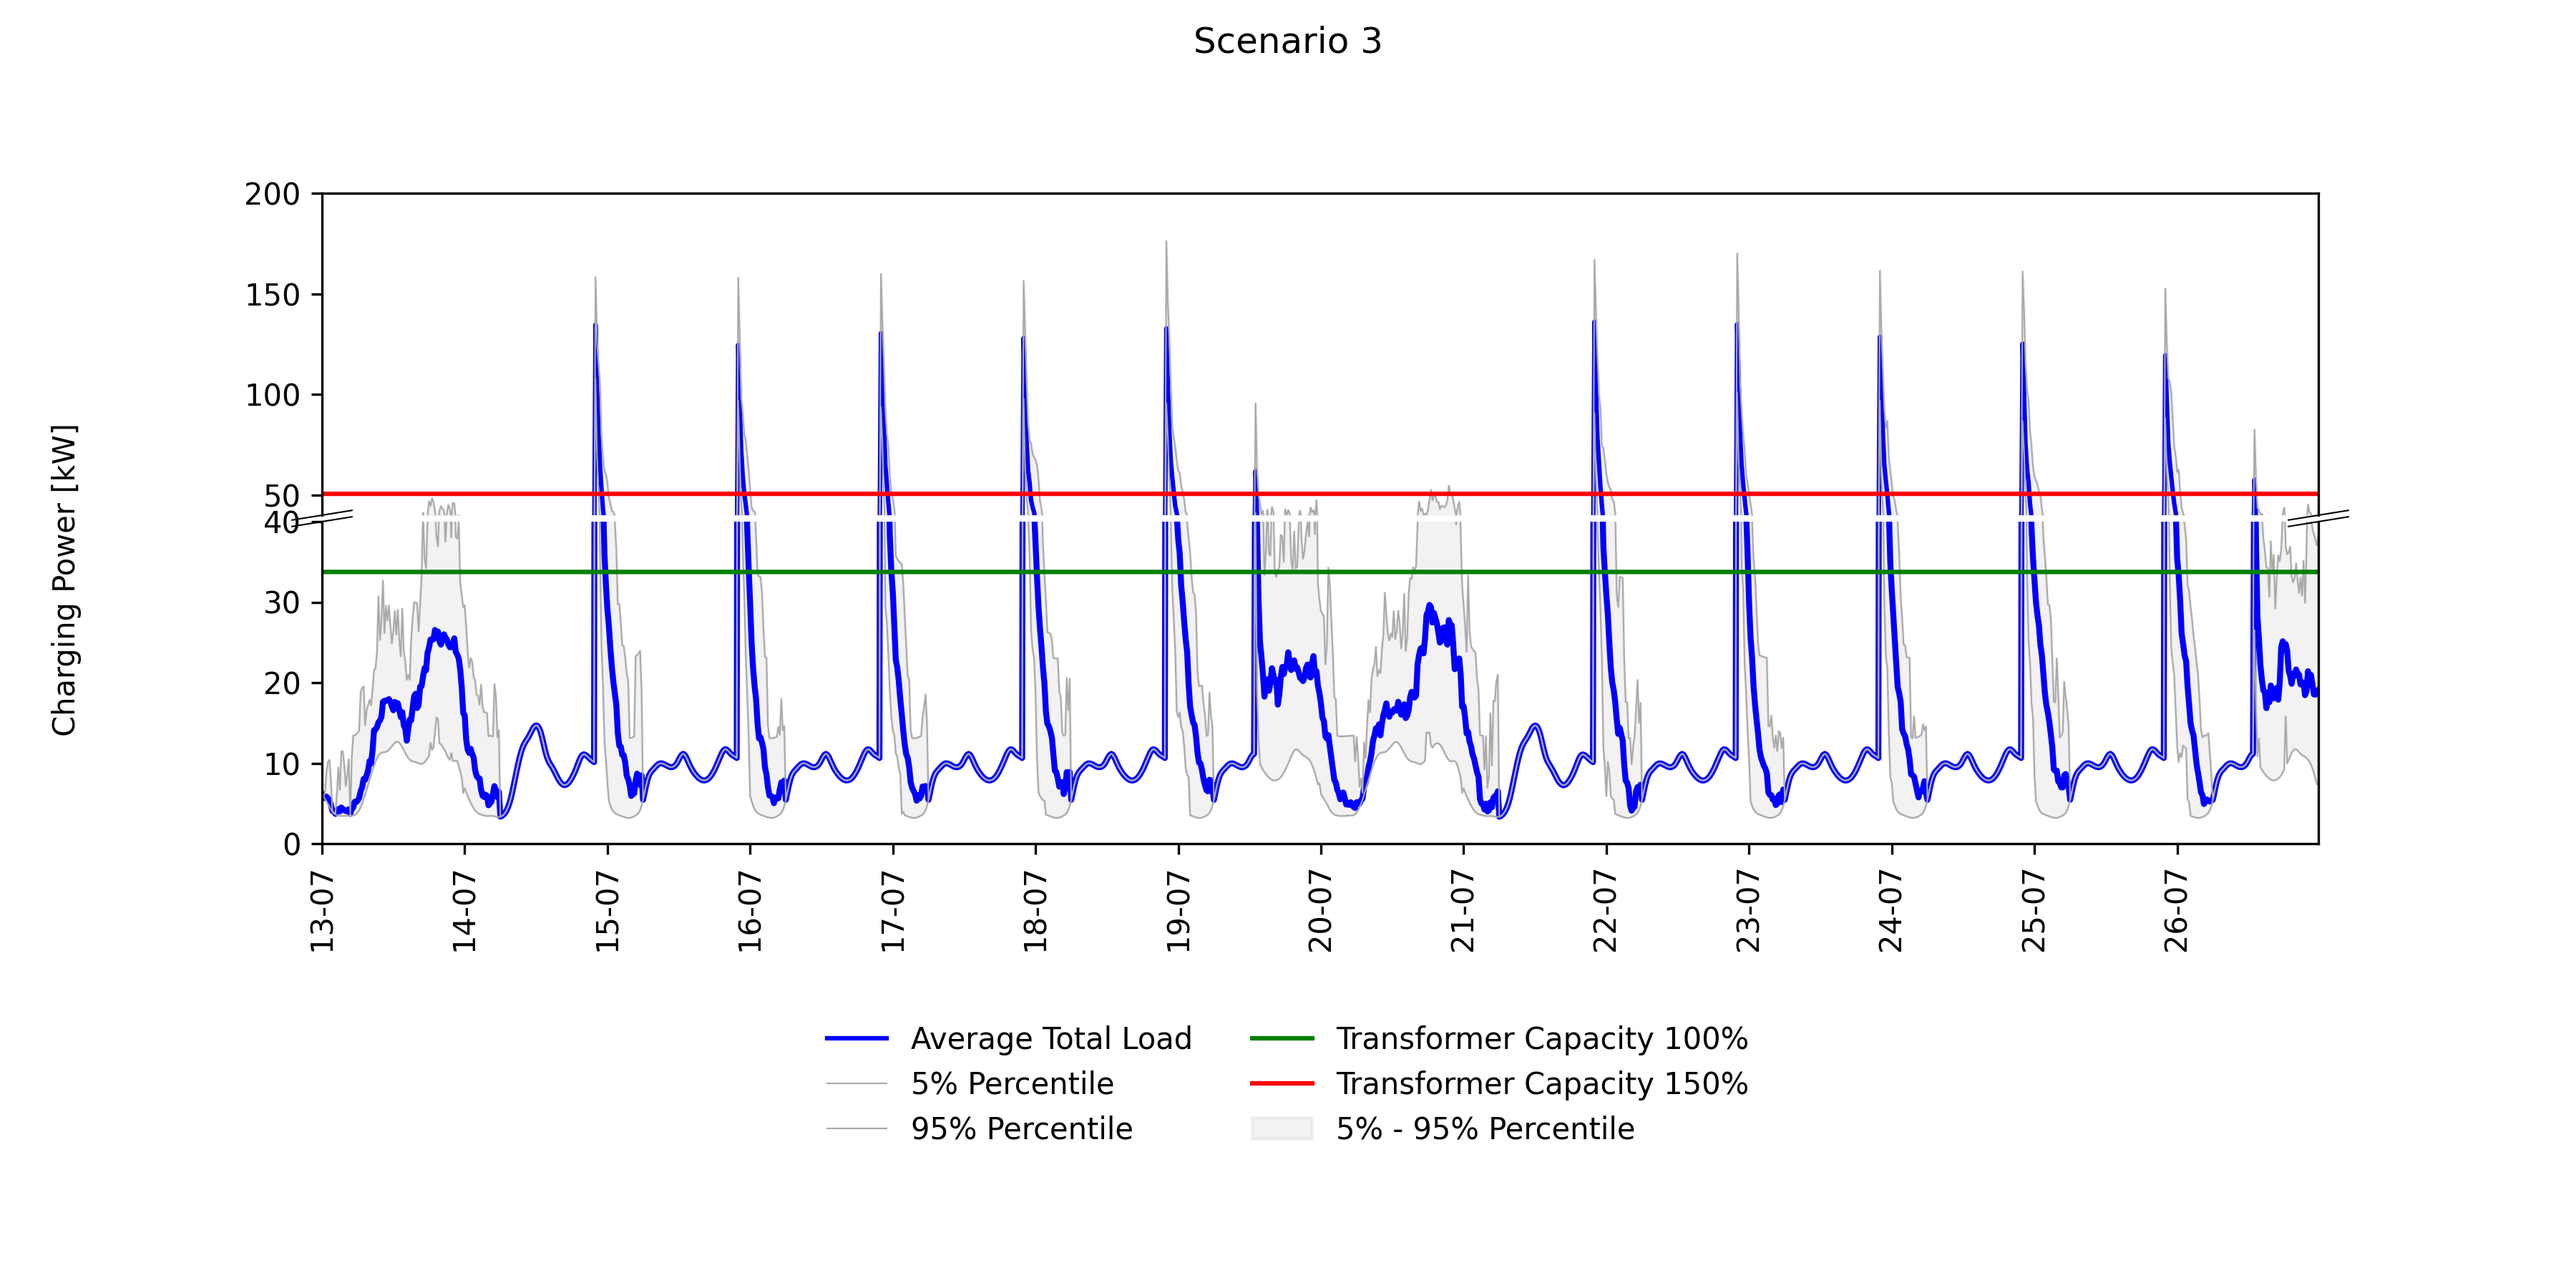
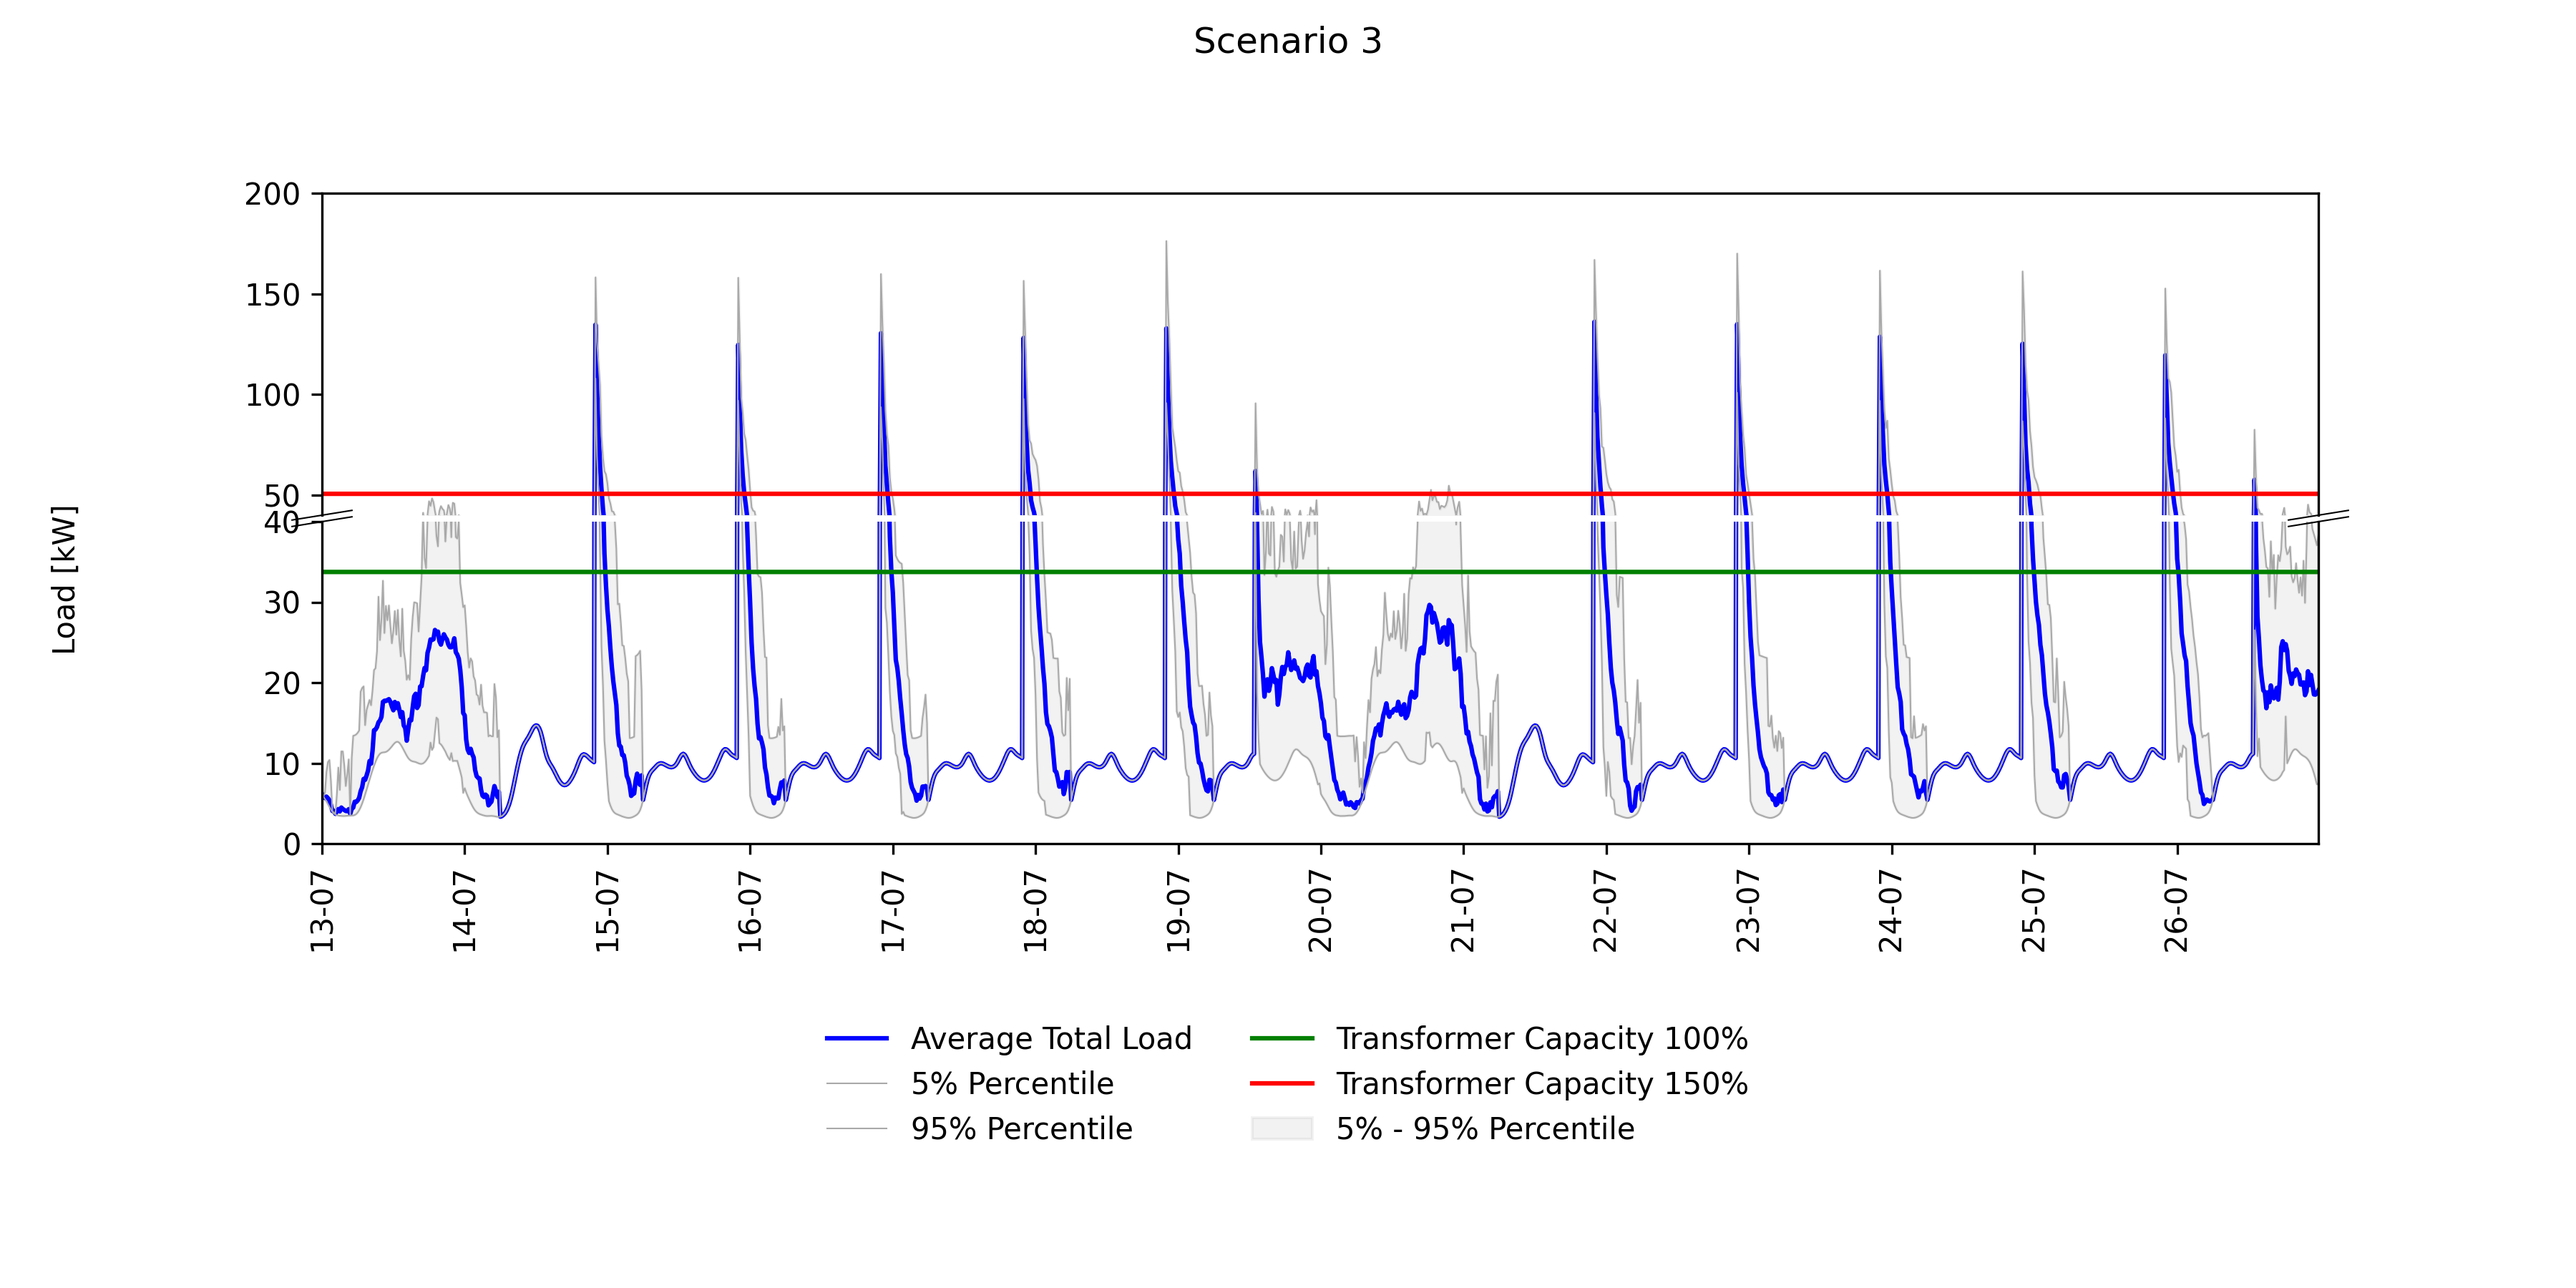
added analytics

Changed region(s): [[0.0, 0.3422, 0.0311, 0.4667], [0.0, 0.4978, 0.0311, 0.56], [0.8711, 0.4978, 0.9022, 0.5289]]

diff --git a/data_analytics/analytics_results.py b/data_analytics/analytics_results.py
@@ -65,7 +65,6 @@ def plot_all():
     lines = []  # Store lines for creating a common legend
 
     for i, csv_file in enumerate(csv_files):
-        # Read the CSV file into a DataFrame
         df = pd.read_csv(csv_file)
 
         x_axis_time = pd.date_range(start=start_date, end=end_date, freq='15T')
@@ -459,27 +458,27 @@ def create_diff_plots_all_runs_no_interaction():
 def average_load_profiles_models_one_agent():
     start_date = '2008-07-13'
     end_date = '2008-07-27'
-    title = 'Average Charging Profile\nScenario 4, 8, 12, 16'
+    title = 'Average Charging Profile\nScenario 15'
     scenarios = [
-        # "*_025_interaction_false_norm*/results_run_*_model*.csv",
-        # "*_025_interaction_true_norm*/results_run_*_model*.csv",
-        # "*_025_interaction_false_off*/results_run_*_model*.csv",
-        "*_025_interaction_true_off*/results_run_*_model*.csv",
+        # "*_025_interaction_false_norm*/results_run_*_model*.csv",     # 1
+        # "*_025_interaction_true_norm*/results_run_*_model*.csv",      # 2
+        # "*_025_interaction_false_off*/results_run_*_model*.csv",      # 3
+        # "*_025_interaction_true_off*/results_run_*_model*.csv",      # 4
 
-        # "*_050_interaction_false_norm*/results_run_*_model*.csv",
-        # "*_050_interaction_true_norm*/results_run_*_model*.csv",
-        # "*_050_interaction_false_off*/results_run_*_model*.csv",
-        "*_050_interaction_true_off*/results_run_*_model*.csv",
+        # "*_050_interaction_false_norm*/results_run_*_model*.csv",      # 5
+        # "*_050_interaction_true_norm*/results_run_*_model*.csv",      # 6
+        # "*_050_interaction_false_off*/results_run_*_model*.csv",      # 7
+        # "*_050_interaction_true_off*/results_run_*_model*.csv",      # 8
 
-        # "*_150_interaction_false_norm*/results_run_*_model*.csv",
-        # "*_150_interaction_true_norm*/results_run_*_model*.csv",
-        # "*_150_interaction_false_off*/results_run_*_model*.csv",
-        "*_150_interaction_true_off*/results_run_*_model*.csv",
+        # "*_150_interaction_false_norm*/results_run_*_model*.csv",      # 9
+        # "*_150_interaction_true_norm*/results_run_*_model*.csv",      # 10
+        # "*_150_interaction_false_off*/results_run_*_model*.csv",      # 11
+        # "*_150_interaction_true_off*/results_run_*_model*.csv",      # 12
 
-        # "*_300_interaction_false_norm*/results_run_*_model*.csv",
-        # "*_300_interaction_true_norm*/results_run_*_model*.csv",
-        # "*_300_interaction_false_off*/results_run_*_model*.csv",
-        "*_300_interaction_true_off*/results_run_*_model*.csv"
+        # "*_300_interaction_false_norm*/results_run_*_model*.csv",      # 13
+        # "*_300_interaction_true_norm*/results_run_*_model*.csv",      # 14
+        "*_300_interaction_false_off*/results_run_*_model*.csv",      # 15
+        # "*_300_interaction_true_off*/results_run_*_model*.csv"      # 16
     ]
 
     directory_path = r'C:\Users\Max\PycharmProjects\mesa\results'
@@ -524,21 +523,11 @@ def average_load_profiles_models_one_agent():
     result_df_recharge_power['average'] = result_df_recharge_power['total_recharge_power'].mean(axis=1)
     result_df_recharge_power['percentile_5'] = result_df_recharge_power['total_recharge_power'].quantile(0.05, axis=1)
     result_df_recharge_power['percentile_95'] = result_df_recharge_power['total_recharge_power'].quantile(0.95, axis=1)
-    # result_df_recharge_power.set_index('timestamp', inplace=True)
-
-    # Extract the hour and minute components from the timestamp
     result_df_recharge_power['hour'] = result_df_recharge_power.index.hour
     result_df_recharge_power['minute'] = result_df_recharge_power.index.minute
-
-    # Group the data by hour and quarter hour and calculate the average
     df_grouped = result_df_recharge_power.groupby(['hour', 'minute']).mean()
-
-    # Reset the index to turn the grouped columns into regular columns
     df_grouped.reset_index(inplace=True)
-
-    # Remove the unnecessary columns
     df_grouped = df_grouped[['hour', 'minute', 'average', 'percentile_5', 'percentile_95']]
-
     df_grouped['minute'] = df_grouped['minute'].astype(str).str.zfill(2)
     df_grouped['time'] = df_grouped['hour'].astype(str) + ':' + df_grouped['minute'].astype(str)
 
@@ -918,10 +907,7 @@ def all_model_results_and_average():
         result_df_recharge_power['percentile_5'] = result_df_recharge_power['total_recharge_power'].quantile(0.05, axis=1)
         result_df_recharge_power['percentile_95'] = result_df_recharge_power['total_recharge_power'].quantile(0.95, axis=1)
 
-        # Concatenate the dataframes from 'list_of_df_total_load'
         result_df_total_load = pd.concat(list_of_df_load, axis=1)
-
-        # Calculate the average, 5th percentile, and 95th percentile for each row
         result_df_total_load['average'] = result_df_total_load.mean(axis=1)
         result_df_total_load['percentile_5'] = result_df_total_load.quantile(0.05, axis=1)
         result_df_total_load['percentile_95'] = result_df_total_load.quantile(0.95, axis=1)
@@ -934,18 +920,21 @@ def all_model_results_and_average():
         y2 = result_df_total_load['percentile_95']
         y3 = list_of_df_transformer_capacity[0]
         y4 = list_of_df_transformer_capacity[0] * 1.5
+        # y5 = result_df_recharge_power['average']
 
         f, (ax, ax2) = plt.subplots(2, 1, sharex=True, figsize=(12, 6))
 
         # Plot the data on both subplots
         ax.plot(x, y, label='Average Total Load', color='blue', linewidth=1.5)
+        # ax.plot(x, y5, label='Average Charging Load', color='blue', linestyle='dotted', linewidth=1.5)
         ax.plot(x, y1, label='5% Percentile', color='darkgrey', linewidth=0.5)
         ax.plot(x, y2, label='95% Percentile', color='darkgrey', linewidth=0.5)
         ax.plot(x, y3, label='Transformer Capacity 100%', color='#008000')
         ax.plot(x, y4, label='Transformer Capacity 150%', color='#ff0000')
         ax.fill_between(result_df_total_load.index, y1, y2, color='grey', alpha=0.1, label='5% - 95% Percentile')
 
-        ax2.plot(x, y, label='Average Total Load', color='blue', linewidth=2)
+        ax2.plot(x, y, label='Average Total Load', color='blue', linewidth=1.5)
+        # ax2.plot(x, y5, label='Average Charging Load', color='blue', linestyle='dotted', linewidth=1.5)
         ax2.plot(x, y1, label='5% Percentile', color='darkgrey', linewidth=0.5)
         ax2.plot(x, y2, label='95% Percentile', color='darkgrey', linewidth=0.5)
         ax2.plot(x, y3, label='Transformer Capacity 100%', color='#008000')
@@ -988,7 +977,7 @@ def all_model_results_and_average():
 
         title = "Scenario " + str(j + 1)
         f.suptitle(title)
-        f.text(0.02, 0.55, 'Charging Power [kW]', va='center', rotation='vertical')
+        f.text(0.02, 0.55, 'Load [kW]', va='center', rotation='vertical')
         # f.text(0.5, 0.2, 'Date', ha='center')
 
         spacing = 0.005
@@ -1429,23 +1418,19 @@ def transformer_ueberlastung(split=False):
             concatenated_df['utilization'] = round(concatenated_df['total_load'], 2) / concatenated_df[
                 'transformer_capacity']
 
-            # Define the bins
             bins = [0.0, 1.0, 1.25, 1.5, 2.0, float('inf')]
             labels = ['x <= 100%', '100% < x <= 125%', '125% < x <= 150%', '150% < x <= 200%', 'x > 200%']
             # Use pd.cut() to categorize transformer load percentages into bins
             concatenated_df['load_category'] = pd.cut(concatenated_df['utilization'], bins=bins, labels=labels,
                                                       right=True)
 
-            # Use value_counts() to count occurrences in each bin
             load_category_counts = concatenated_df['load_category'].value_counts()
             scenario_name = titles[j]
             scenario_data[scenario_name] = load_category_counts.to_dict()
         except:
             continue
 
-    # Convert the dictionary to a DataFrame
     df_result = pd.DataFrame(scenario_data)
-    # Transpose the DataFrame to have 'Load Category' as columns and 'Scenario' as the index
     df_result = df_result.transpose()
 
     df_result = df_result[
@@ -1783,11 +1768,11 @@ if __name__ == '__main__':
     # spitzenlast_pro_auto()
     # plot_all()      # Run this to have comparison for different scenarios one fleet size
     # prozentuale_ueberlastung(split=True)   # TODO CREATE PLOT
-    # transformer_ueberlastung(split=True)   # TODO CREATE PLOT
+    transformer_ueberlastung(split=True)   # TODO CREATE PLOT
     # transformer_ueberlastung_prozent(split=True)  # TODO CREATE PLOT
     # box_plot_transformatorauslastung()  # TODO Create Boxplot and copy table
     # all_model_results_and_average()    # TODO run this to create average results
     # data_export_for_correlation()
-    calc_correlation_between_average_load_profiles()
-    calc_correlation_between_5_percentile_load_profiles()
-    calc_correlation_between_95_percentile_load_profiles()
+    # calc_correlation_between_average_load_profiles()
+    # calc_correlation_between_5_percentile_load_profiles()
+    # calc_correlation_between_95_percentile_load_profiles()

diff --git a/transformer_sizing_analytics.py b/transformer_sizing_analytics.py
@@ -17,7 +17,7 @@ peak_load = transformer_sizing.get_peak_load_kw()
 
 sizing = {}
 list = [25, 50, 150, 300]
-list = [x for x in range(401)]
+# list = [x for x in range(401)]
 
 for i in list:
     transformer = Transformer(unique_id=1,
